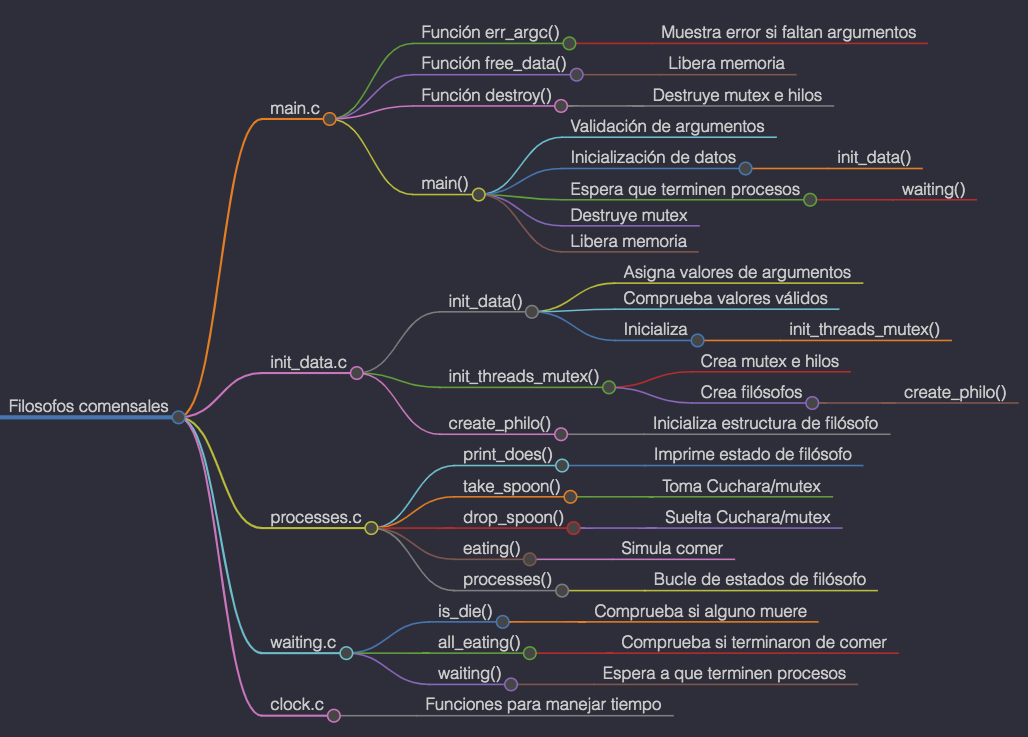
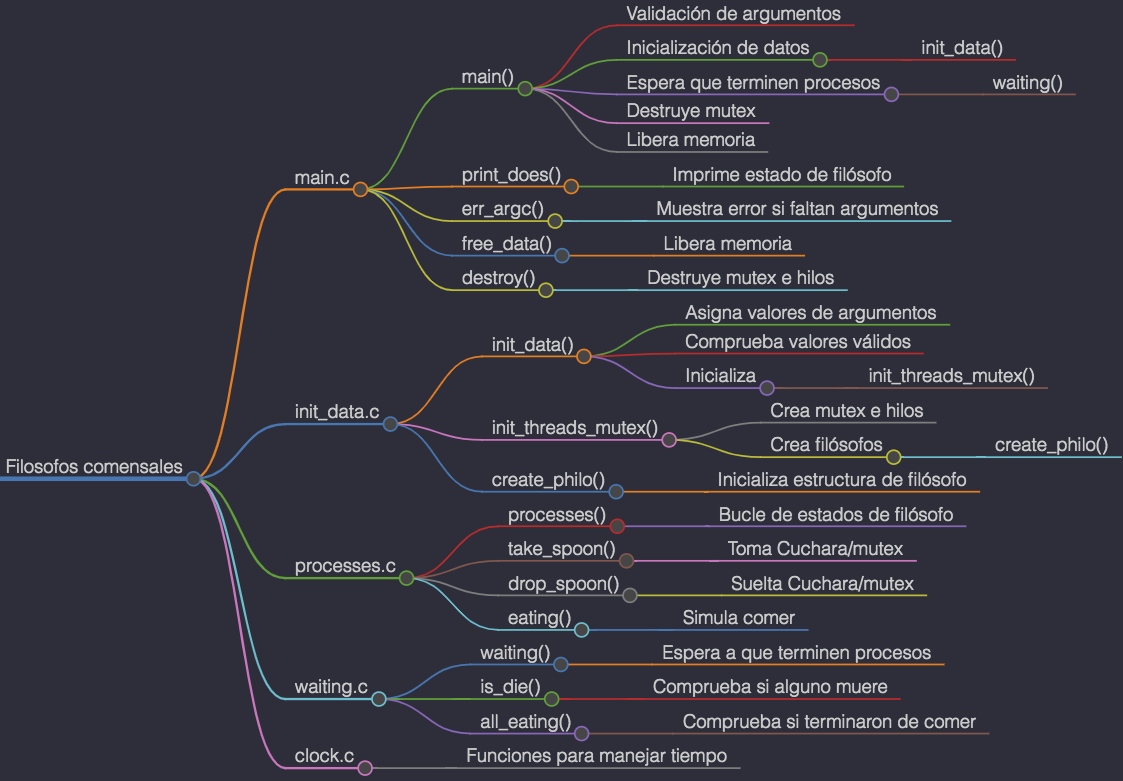
markmap

Changed region(s): [[0.0, 0.0, 0.9961, 0.9986], [0.249, 0.1248, 0.3113, 0.156]]

diff --git a/markmap.mm.md b/markmap.mm.md
@@ -2,12 +2,6 @@
 
 ## main.c
 
-- Función err_argc()
-    - Muestra error si faltan argumentos
-- Función free_data()
-    - Libera memoria 
-- Función destroy()
-    - Destruye mutex e hilos
 - main()
     - Validación de argumentos
     - Inicialización de datos
@@ -16,6 +10,14 @@
         - waiting()
     - Destruye mutex
     - Libera memoria
+- print_does()
+    - Imprime estado de filósofo
+- err_argc()
+    - Muestra error si faltan argumentos
+- free_data()
+    - Libera memoria 
+- destroy()
+    - Destruye mutex e hilos
 
 ## init_data.c
 - init_data()
@@ -31,24 +33,22 @@
     - Inicializa estructura de filósofo
 
 ## processes.c
-- print_does()
-    - Imprime estado de filósofo
+- processes()
+    - Bucle de estados de filósofo
 - take_spoon()
     - Toma Cuchara/mutex
 - drop_spoon()
     - Suelta Cuchara/mutex	
 - eating()
     - Simula comer
-- processes()
-    - Bucle de estados de filósofo
 
 ## waiting.c
+- waiting()
+    - Espera a que terminen procesos
 - is_die()
     - Comprueba si alguno muere
 - all_eating()
     - Comprueba si terminaron de comer
-- waiting()
-    - Espera a que terminen procesos
 
 ## clock.c
 - Funciones para manejar tiempo
